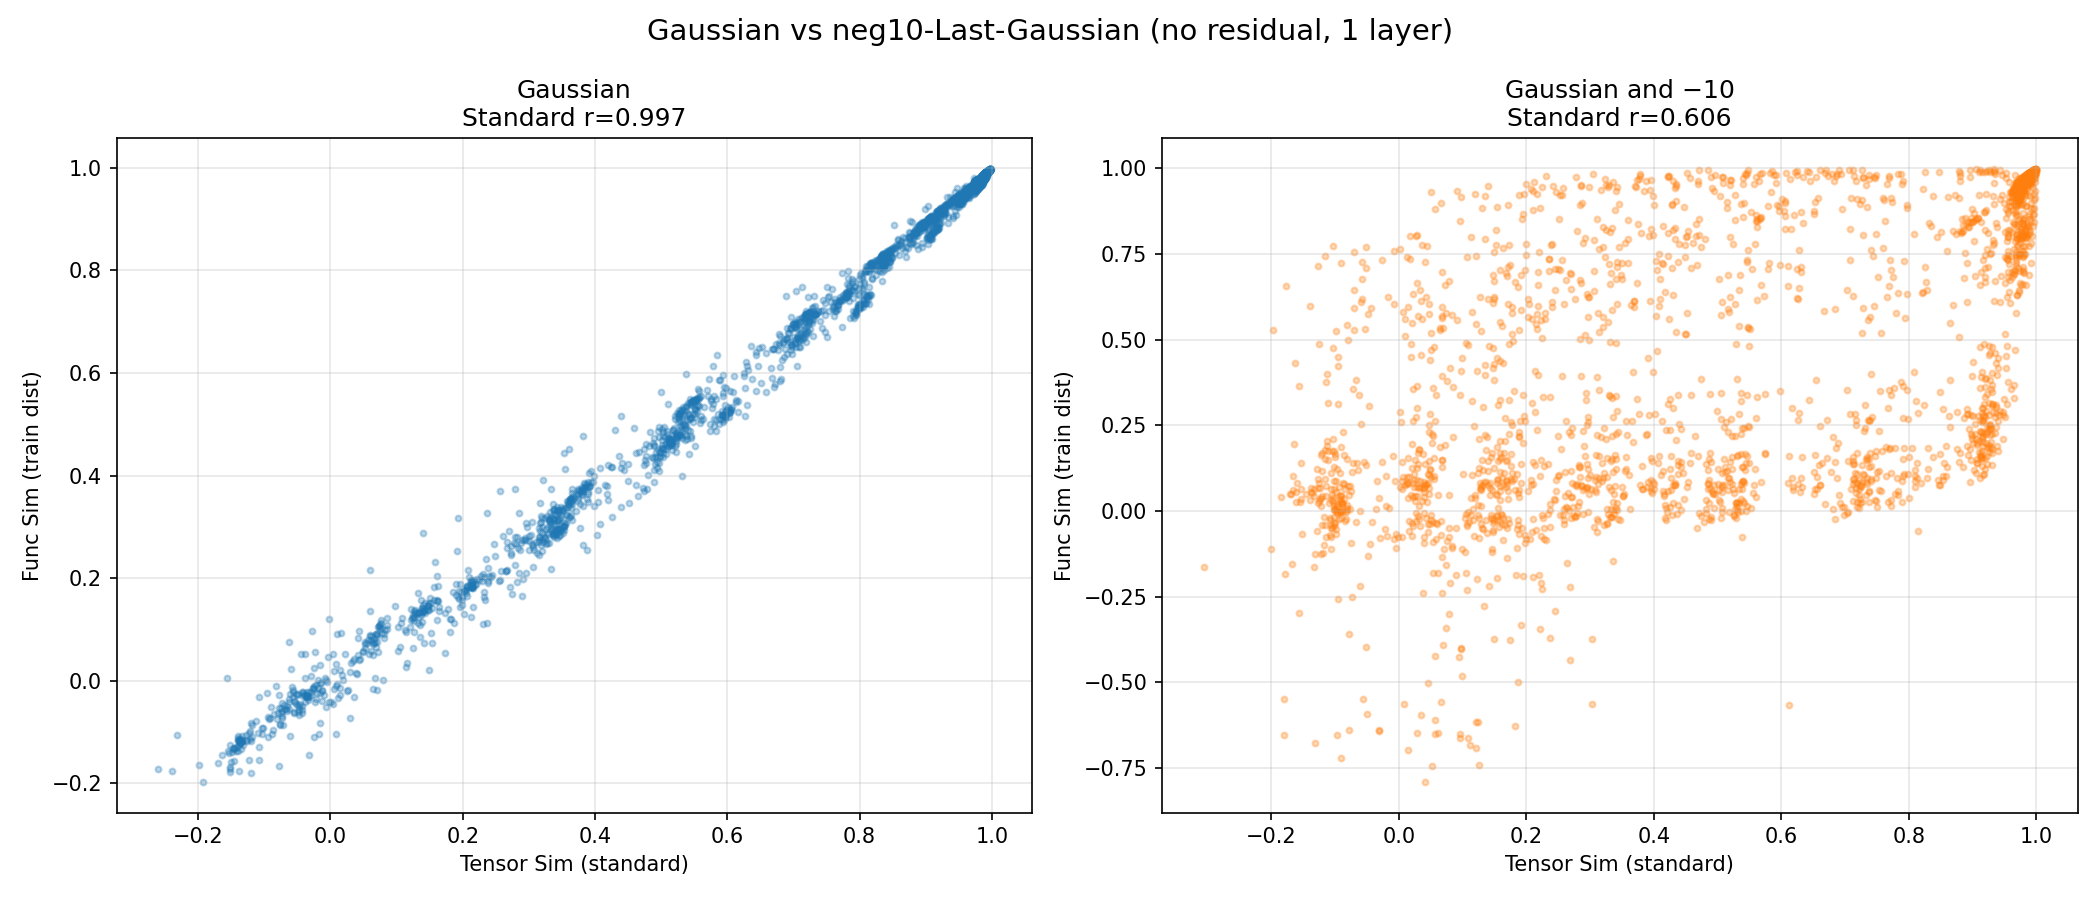
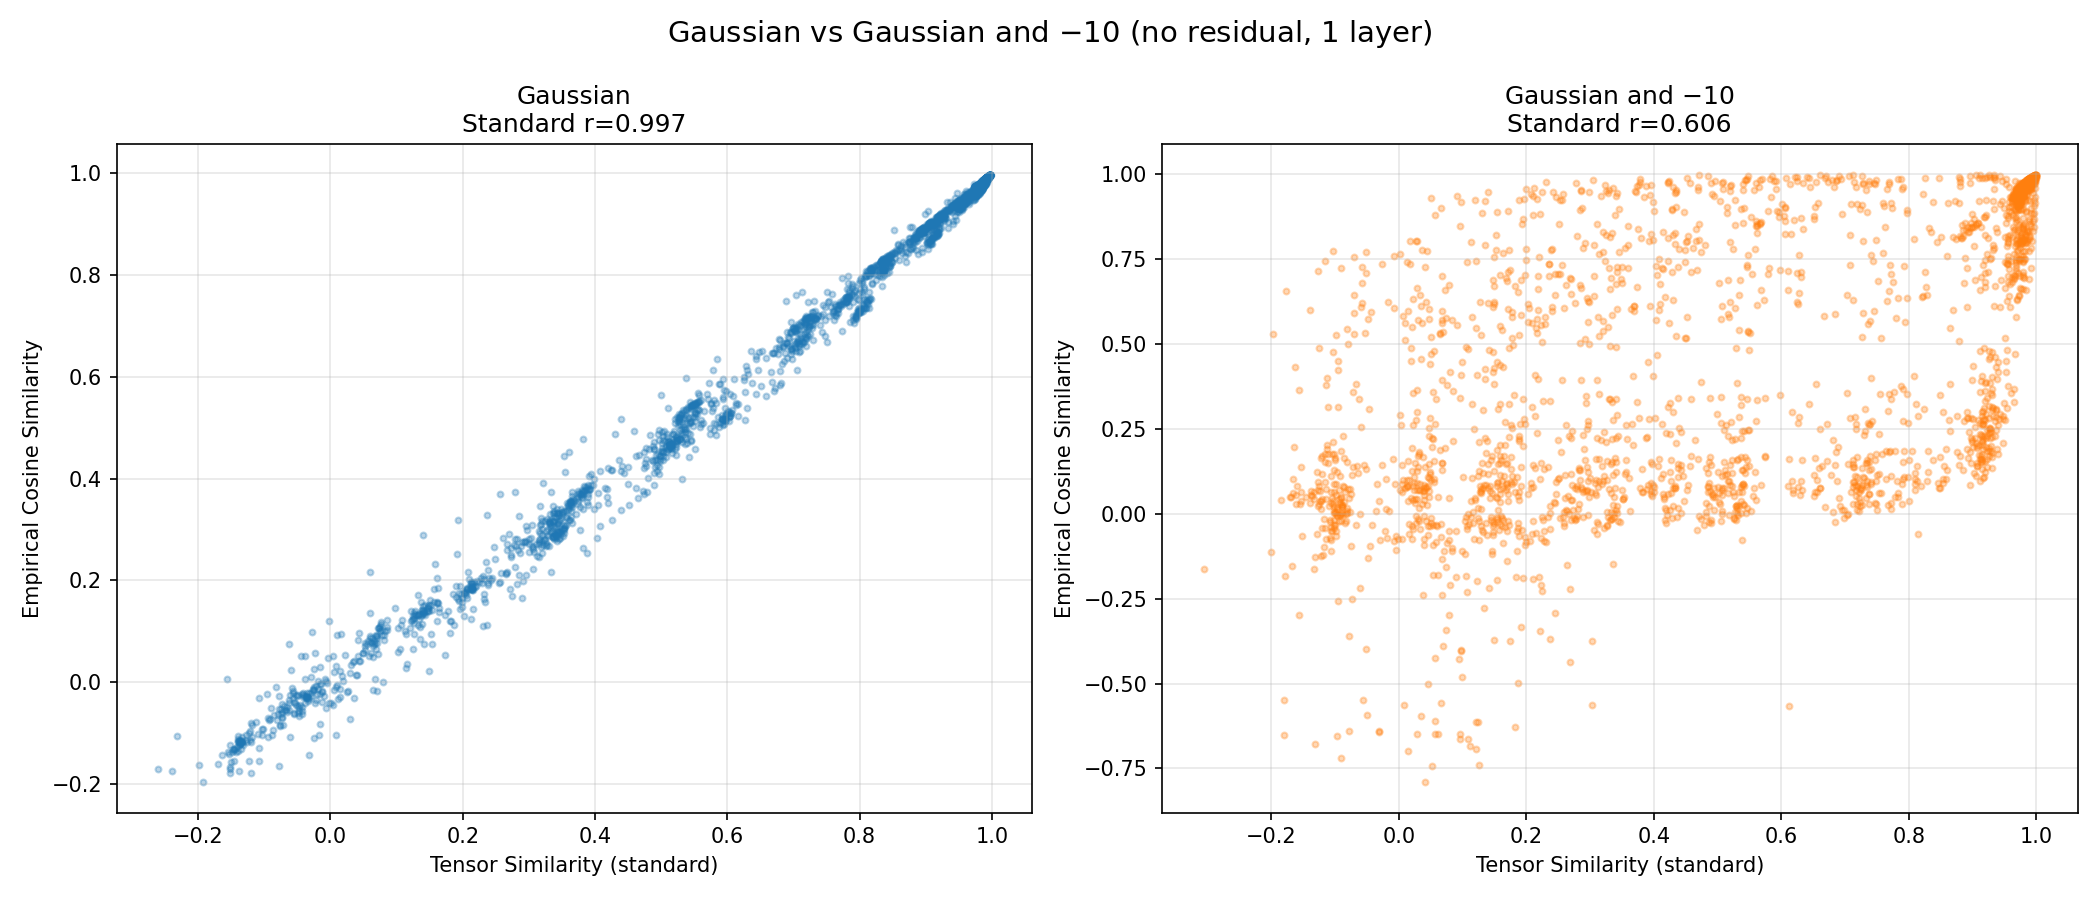
Update axis labels: Func Sim -> Empirical Cosine Similarity, Sim -> Similarity throughout; remove compact plot

diff --git a/workspaces/jacob/tensor_similarity_distribution_robustness/plot.py b/workspaces/jacob/tensor_similarity_distribution_robustness/plot.py
@@ -66,8 +66,8 @@ for idx, dist_name in enumerate(dist_names):
 
     r_val, _ = stats.pearsonr(ts, fs)
     ax.set_title(f'{DIST_LABELS[dist_name]}\nr={r_val:.3f}')
-    ax.set_xlabel('Tensor Sim (standard)')
-    ax.set_ylabel('Func Sim (train dist)')
+    ax.set_xlabel('Tensor Similarity (standard)')
+    ax.set_ylabel('Empirical Cosine Similarity')
     ax.grid(True, alpha=0.3)
     if idx == 0:
         ax.legend(fontsize=7)
@@ -75,7 +75,7 @@ for idx, dist_name in enumerate(dist_names):
 for idx in range(n_dists, len(axes)):
     axes[idx].set_visible(False)
 
-plt.suptitle('Tensor Sim vs Functional Sim — No Residual, 1 Layer', fontsize=14)
+plt.suptitle('Tensor Similarity vs Empirical Cosine Similarity — No Residual, 1 Layer', fontsize=14)
 plt.tight_layout()
 plt.savefig(os.path.join(RESULTS_DIR, 'scatter_grid.png'), dpi=150)
 plt.close()
@@ -98,7 +98,7 @@ ax.bar(x - width/2, r_standard, width, label='Standard (Sigma=I)')
 ax.bar(x + width/2, r_generalized, width, label='Generalized (Sigma=estimated)')
 ax.set_xticks(x)
 ax.set_xticklabels([DIST_LABELS[d] for d in dist_names], rotation=45, ha='right')
-ax.set_ylabel('Pearson r (tensor sim vs func sim)')
+ax.set_ylabel('Pearson r (tensor similarity vs empirical cosine similarity)')
 ax.set_title('Standard vs Generalized Tensor Similarity — No Residual, 1 Layer')
 ax.legend()
 ax.set_ylim(0, 1.05)
@@ -117,11 +117,11 @@ for ax, dname, color in [(axes[0], 'gaussian', 'C0'), (axes[1], 'neg10_last_gaus
     r_val, _ = stats.pearsonr(ts, fs)
     ax.scatter(ts, fs, alpha=0.3, s=8, color=color)
     ax.set_title(f'{DIST_LABELS[dname]}\nStandard r={r_val:.3f}')
-    ax.set_xlabel('Tensor Sim (standard)')
-    ax.set_ylabel('Func Sim (train dist)')
+    ax.set_xlabel('Tensor Similarity (standard)')
+    ax.set_ylabel('Empirical Cosine Similarity')
     ax.grid(True, alpha=0.3)
 
-plt.suptitle('Gaussian vs neg10-Last-Gaussian (no residual, 1 layer)', fontsize=14)
+plt.suptitle('Gaussian vs Gaussian and $-10$ (no residual, 1 layer)', fontsize=14)
 plt.tight_layout()
 plt.savefig(os.path.join(RESULTS_DIR, 'gaussian_vs_neg10.png'), dpi=150)
 plt.close()
@@ -175,43 +175,9 @@ ax.set_yticklabels([DIST_LABELS[d] for d in dist_names])
 for i in range(n_dists):
     for j in range(n_dists):
         ax.text(j, i, f'{cross_matrix[i, j]:.2f}', ha='center', va='center', fontsize=8)
-plt.colorbar(im, ax=ax, label='Tensor Sim (standard)')
+plt.colorbar(im, ax=ax, label='Tensor Similarity (standard)')
 ax.set_title('Cross-Distribution Tensor Similarity (no residual, final checkpoint)')
 plt.tight_layout()
 plt.savefig(os.path.join(RESULTS_DIR, 'cross_distribution_heatmap.png'), dpi=150)
 plt.close()
 print("Saved cross_distribution_heatmap.png")
-
-# --- Chart 1b: Compact scatter grid (coauthor suggestion) ---
-n_cols_compact = 3
-n_rows_compact = math.ceil(n_dists / n_cols_compact)
-fig, axes = plt.subplots(n_rows_compact, n_cols_compact,
-                         figsize=(n_cols_compact * 2.5, n_rows_compact * 2.5))
-axes = axes.flatten()
-
-for idx, dist_name in enumerate(dist_names):
-    ax = axes[idx]
-    rows = [r for r in within_dist_results if r['dist'] == dist_name]
-    ts = [r['tensor_sim_standard'] for r in rows]
-    fs = [r['func_sim_train'] for r in rows]
-
-    r_val, _ = stats.pearsonr(ts, fs)
-    ax.scatter(ts, fs, alpha=0.15, s=3, color='C0')
-    ax.set_title(f'{DIST_LABELS[dist_name]}\n(r = {r_val:.3f})', fontsize=8)
-    ax.set_xlim(-1, 1)
-    ax.set_ylim(-1, 1)
-    ax.set_xticks([])
-    ax.set_yticks([])
-    ax.grid(True, alpha=0.2)
-
-for idx in range(n_dists, len(axes)):
-    axes[idx].set_visible(False)
-
-fig.text(0.5, 0.01,
-         'x-axis: tensor similarity,  y-axis: cosine similarity of outputs,  both bounded in $[-1, 1]$',
-         ha='center', fontsize=8, style='italic')
-
-plt.tight_layout(rect=[0, 0.04, 1, 1])
-plt.savefig(os.path.join(RESULTS_DIR, 'scatter_grid_compact.png'), dpi=150)
-plt.close()
-print("Saved scatter_grid_compact.png")
